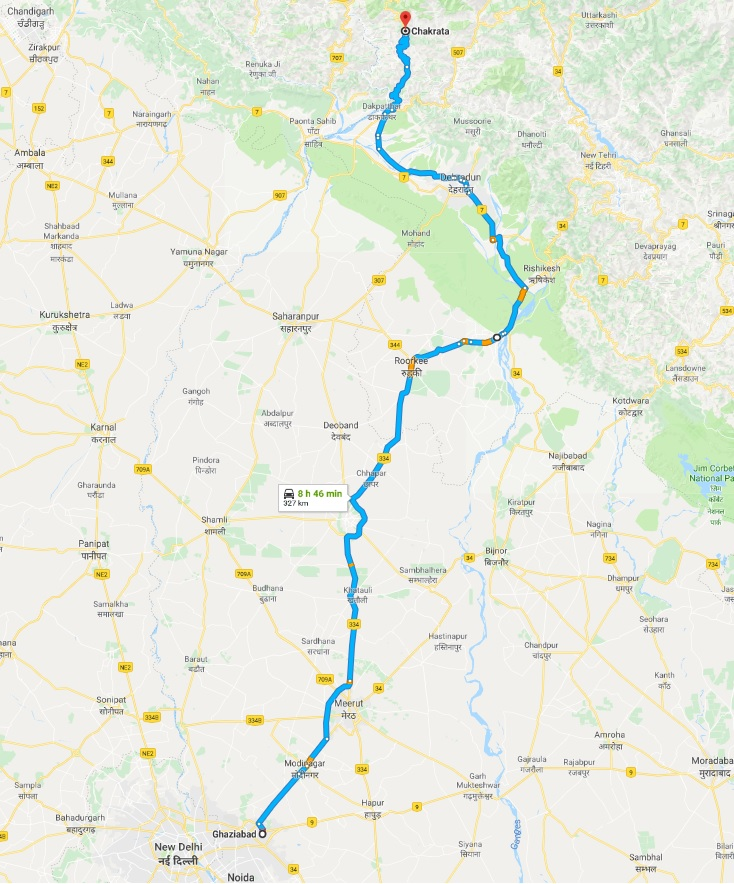
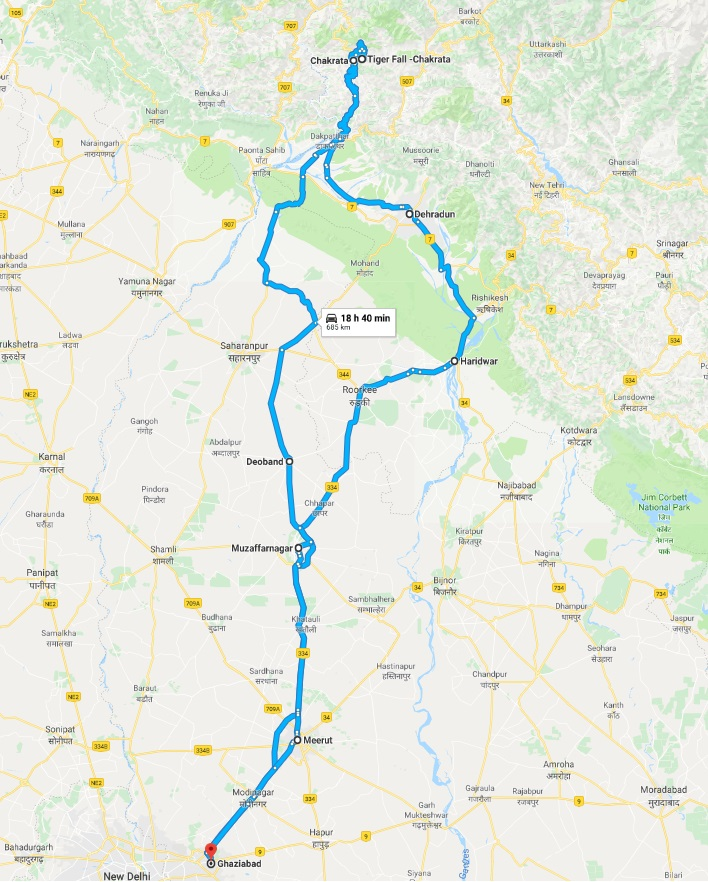
chakrata++

diff --git a/march-2018/chakrata.md b/march-2018/chakrata.md
@@ -1,21 +1,13 @@
 | | “A good traveler has no fixed plans and is not intent on arriving.” – Lao Tzu |
 | :--- | :--- |
 | Summary | This is the story of my motercycle ride to Tiger Fall, Chakrata, Uttarakhand in India, during March, 2018|
-| Total Distance | ~620 kilometers |
+| Total Distance | ~685 kilometers |
 | Course | Ghaziabad to Chakrata, Uttarakhand |
 | Transport | Enfleid Electra |
 | Stay | NA |
 | Route Map |![](https://github.com/inbravo/travel/blob/master/march-2018/images/c/route-map.jpg)|
 
 ---
-
-##  4:05 AM Ghaziabad
-
-##  4:30 AM Modinagar
-
-##  5:00 AM Meerut
-
-##  6:00 AM Muzaffarnagar
 
 ![](https://github.com/inbravo/travel/blob/master/march-2018/images/c/start.jpg)
 ![](https://github.com/inbravo/travel/blob/master/march-2018/images/c/IMG_20180310_073031.jpg)
